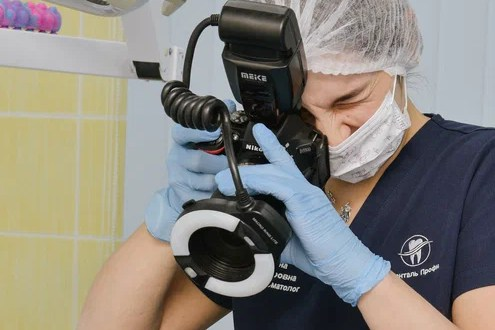
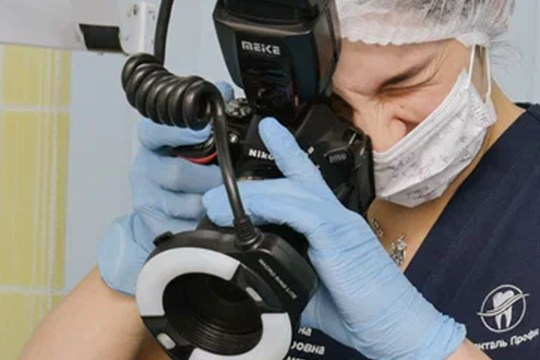
Регулярная гигиена: врач с фотоаппаратом снова крупным планом

diff --git a/regulyarnaya-gigiena/index.html b/regulyarnaya-gigiena/index.html
@@ -179,7 +179,7 @@
           <li class="film__item">
             <div class="film__frame">
               <figure class="film__media">
-                <img class="film__img" src="assets/img/photo-shoot.jpg?v=5" width="495" height="330" alt="врач фотографирует зубы пациента перед гигиеной" loading="lazy" decoding="async">
+                <img class="film__img" src="assets/img/photo-shoot.jpg?v=6" width="540" height="360" alt="врач фотографирует зубы пациента перед гигиеной" loading="lazy" decoding="async">
               </figure>
             </div>
             <span class="film__num">01</span>
